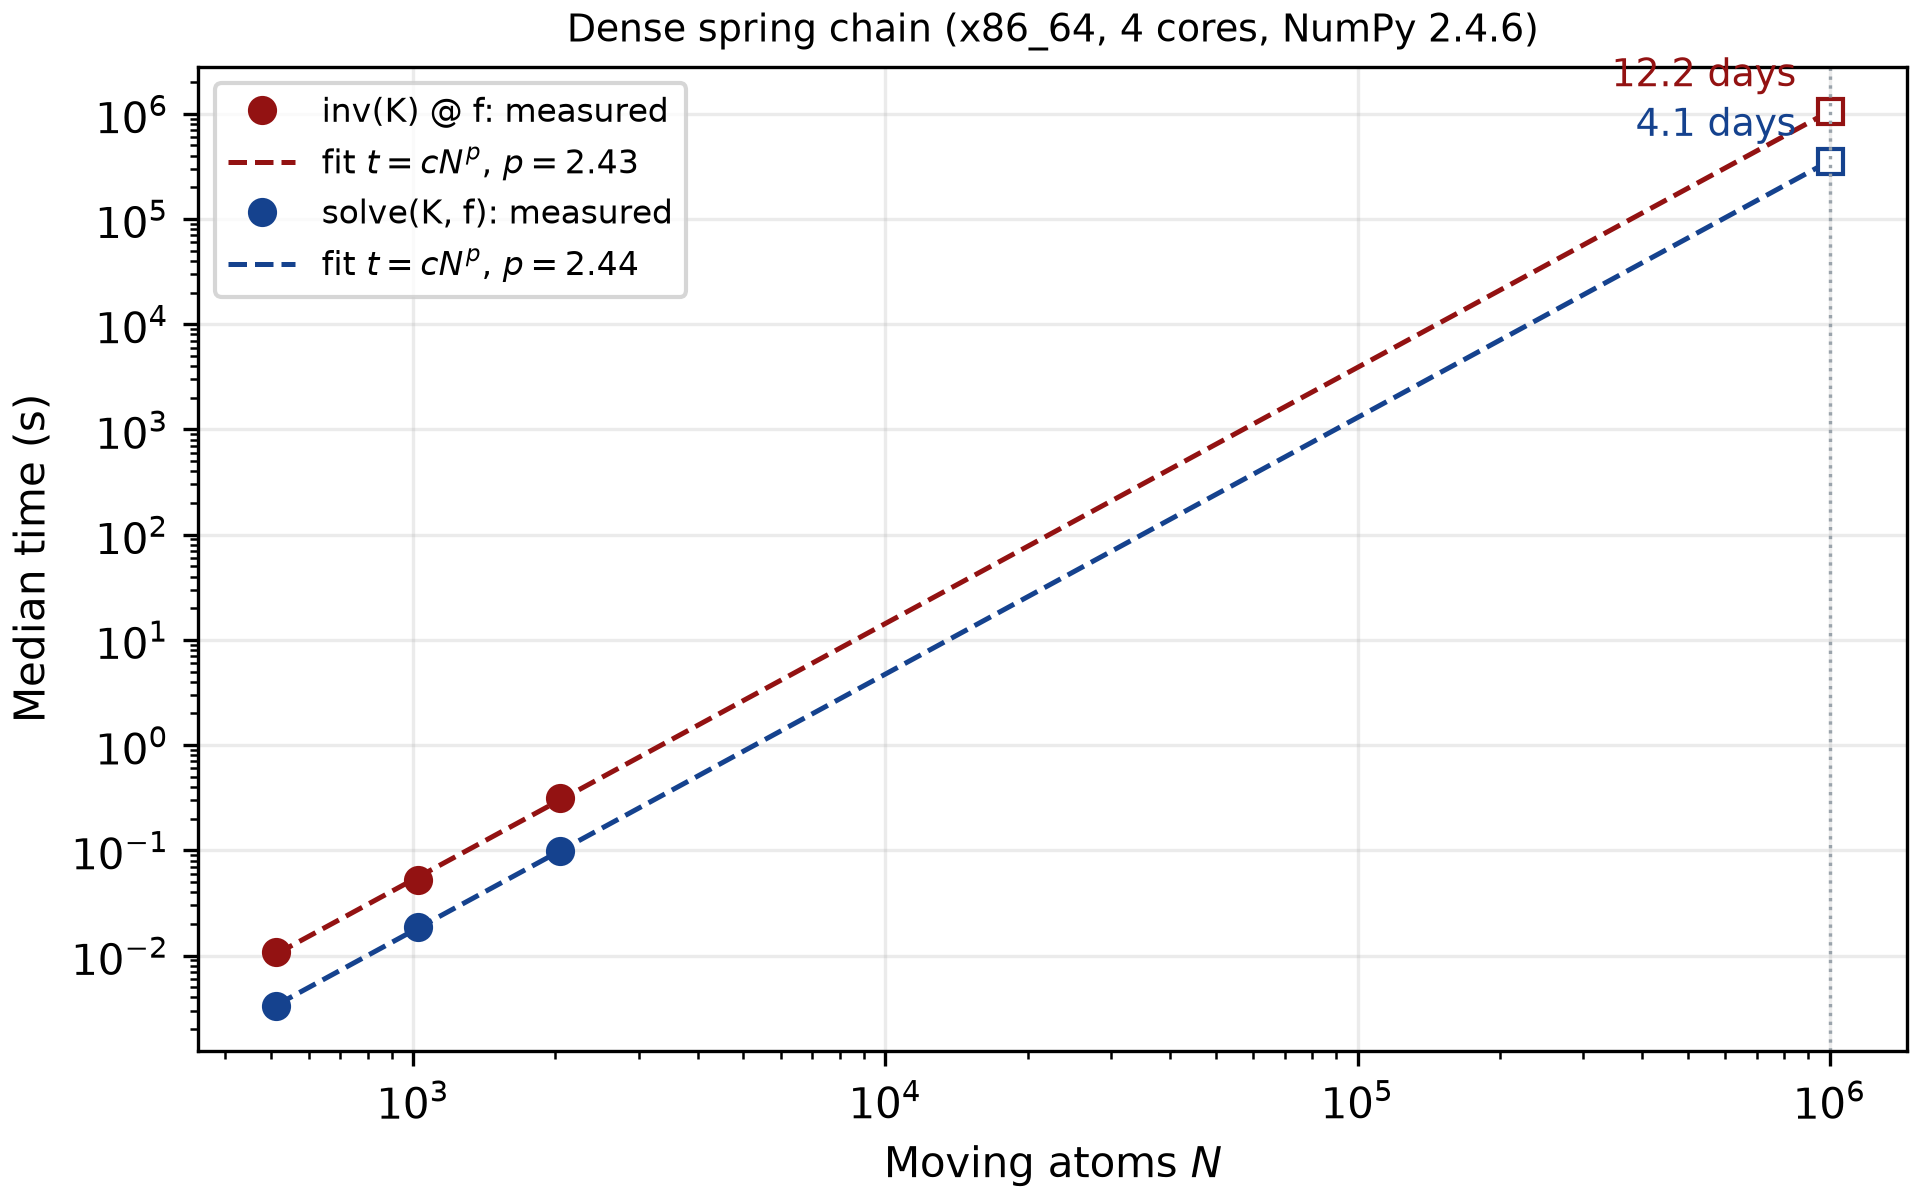
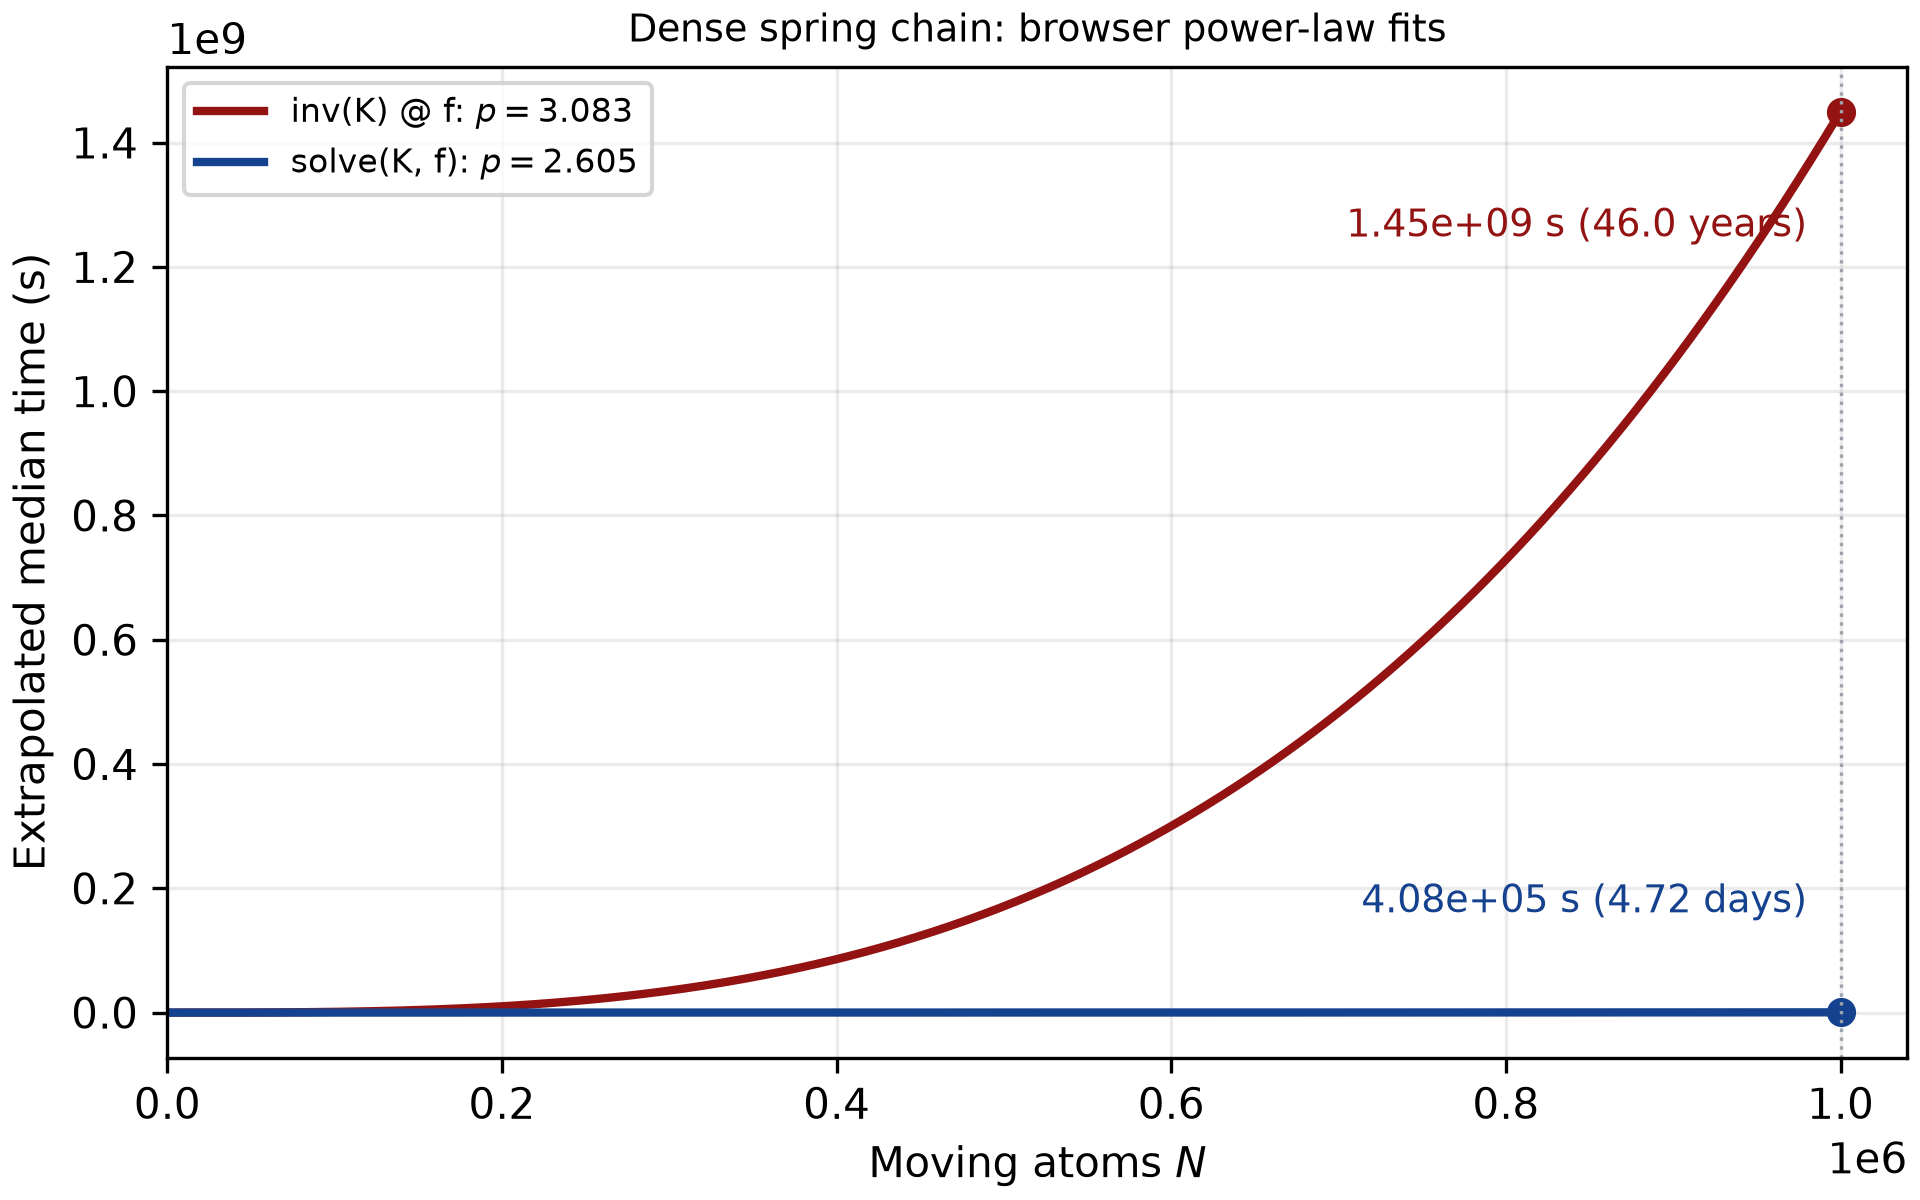
update l12

diff --git a/scripts/l12_figures.py b/scripts/l12_figures.py
@@ -1,9 +1,7 @@
-"""Static L12 figure: dense inverse and solve timings with a power-law fit.
+"""Static L12 figure using the browser benchmark's power-law extrapolations.
 
 Run from the repository root: uv run --locked python scripts/l12_figures.py
-Reads data/L12-dense-benchmark.json, written by scripts/l12_dense_benchmark.py.
 """
-import json
 from pathlib import Path
 
 import matplotlib
@@ -15,29 +13,35 @@ ROOT = Path(__file__).resolve().parents[1]
 DPI = 300
 COLOURS = {"inverse": "#931212", "solve": "#15428e"}
 LABELS = {"inverse": "inv(K) @ f", "solve": "solve(K, f)"}
+TARGET = 1_000_000
+# Browser-run fit summary: exponent and estimated seconds at TARGET.
+BROWSER_FITS = {
+    "inverse": {"p": 3.083, "seconds": 1.45e9},
+    "solve": {"p": 2.605, "seconds": 4.08e5},
+}
 
 
 def dense_benchmark():
-    data = json.loads((ROOT / "data" / "L12-dense-benchmark.json").read_text())
-    sizes = np.array(data["sizes"], dtype=float)
-    target = 1e6
     fig, ax = plt.subplots(figsize=(6.4, 4.0), layout="constrained")
-    grid = np.geomspace(sizes.min(), target, 200)
-    for method, times in data["median_seconds"].items():
-        p, log_c = np.polyfit(np.log(sizes), np.log(times), 1)
-        t_target = np.exp(log_c + p * np.log(target))
-        ax.loglog(sizes, times, "o", color=COLOURS[method], ms=6,
-                  label=f"{LABELS[method]}: measured")
-        ax.loglog(grid, np.exp(log_c + p * np.log(grid)), "--", color=COLOURS[method], lw=1.2,
-                  label=f"fit $t = cN^{{p}}$, $p = {p:.2f}$")
-        ax.plot(target, t_target, "s", color=COLOURS[method], mfc="white", ms=6)
-        ax.annotate(f"{t_target / 86400:.1f} days", (target, t_target), xytext=(-8, 6),
+    grid = np.linspace(0, TARGET, 500)
+    for method, result in BROWSER_FITS.items():
+        p = result["p"]
+        t_target = result["seconds"]
+        times = t_target * (grid / TARGET) ** p
+        ax.plot(grid, times, color=COLOURS[method], lw=2,
+                label=f"{LABELS[method]}: $p = {p:.3f}$")
+        ax.plot(TARGET, t_target, "o", color=COLOURS[method], ms=6)
+        duration = (f"{t_target / (365 * 86400):.1f} years" if method == "inverse"
+                    else f"{t_target / 86400:.2f} days")
+        ax.annotate(f"{t_target:.3g} s ({duration})", (TARGET, t_target),
+                    xytext=(-8, -30 if method == "inverse" else 24),
                     textcoords="offset points", ha="right", color=COLOURS[method], fontsize=9)
-    ax.axvline(target, color="#9aa3ab", lw=0.8, ls=":")
-    ax.set(xlabel="Moving atoms $N$", ylabel="Median time (s)",
-           title=f"Dense spring chain ({data['machine']})")
+    ax.axvline(TARGET, color="#9aa3ab", lw=0.8, ls=":")
+    ax.set(xlim=(0, TARGET * 1.04), xlabel="Moving atoms $N$",
+           ylabel="Extrapolated median time (s)",
+           title="Dense spring chain: browser power-law fits")
     ax.title.set_fontsize(9)
-    ax.grid(True, which="major", alpha=0.25)
+    ax.grid(True, alpha=0.25)
     ax.legend(fontsize=8, loc="upper left")
     fig.savefig(ROOT / "assets" / "L12-dense-benchmark.png", dpi=DPI, facecolor="white")
     plt.close(fig)

diff --git a/activities/l12_banded_solve.edit.py b/activities/l12_banded_solve.edit.py
@@ -55,21 +55,12 @@ def _(F, N, k, np, perf_counter, solve_banded):
     print(f"Dense matrix alone: {8 * N**2 / 1e9:.4g} GB")
     print(f"Banded array alone: {K_band.nbytes / 1e6:.4g} MB")
     print(f"End displacement: {u[-1]:.8g}")
-    return K_band, f, u
+    return (u,)
 
 
 @app.cell
-def _(F, N, K_band, f, k, np, u):
+def _(F, N, k, np):
     reference = np.arange(1, N + 1) * F / k
-    # Apply K without creating a dense N-by-N array.
-    residual = K_band[1] * u - f
-    residual[:-1] += K_band[0, 1:] * u[1:]
-    residual[1:] += K_band[2, :-1] * u[:-1]
-    print("Relative solution error:", np.linalg.norm(u - reference) / np.linalg.norm(reference))
-    print("Relative residual:", np.linalg.norm(residual) / np.linalg.norm(f))
-    if N <= 100:
-        dense_K = np.diag(K_band[1]) + np.diag(K_band[0, 1:], 1) + np.diag(K_band[2, :-1], -1)
-        print("Dense/banded agreement:", np.allclose(u, np.linalg.solve(dense_K, f)))
     return (reference,)
 
 
@@ -85,15 +76,6 @@ def _(N, np, plt, reference, u):
     fig
     return
 
-
-@app.cell
-def _(mo):
-    mo.md("""
-    Banded storage preserves the chain's local connections. It changes
-    memory and computational cost, while the force-balance equations
-    stay the same.
-    """)
-    return
 
 
 if __name__ == "__main__":
